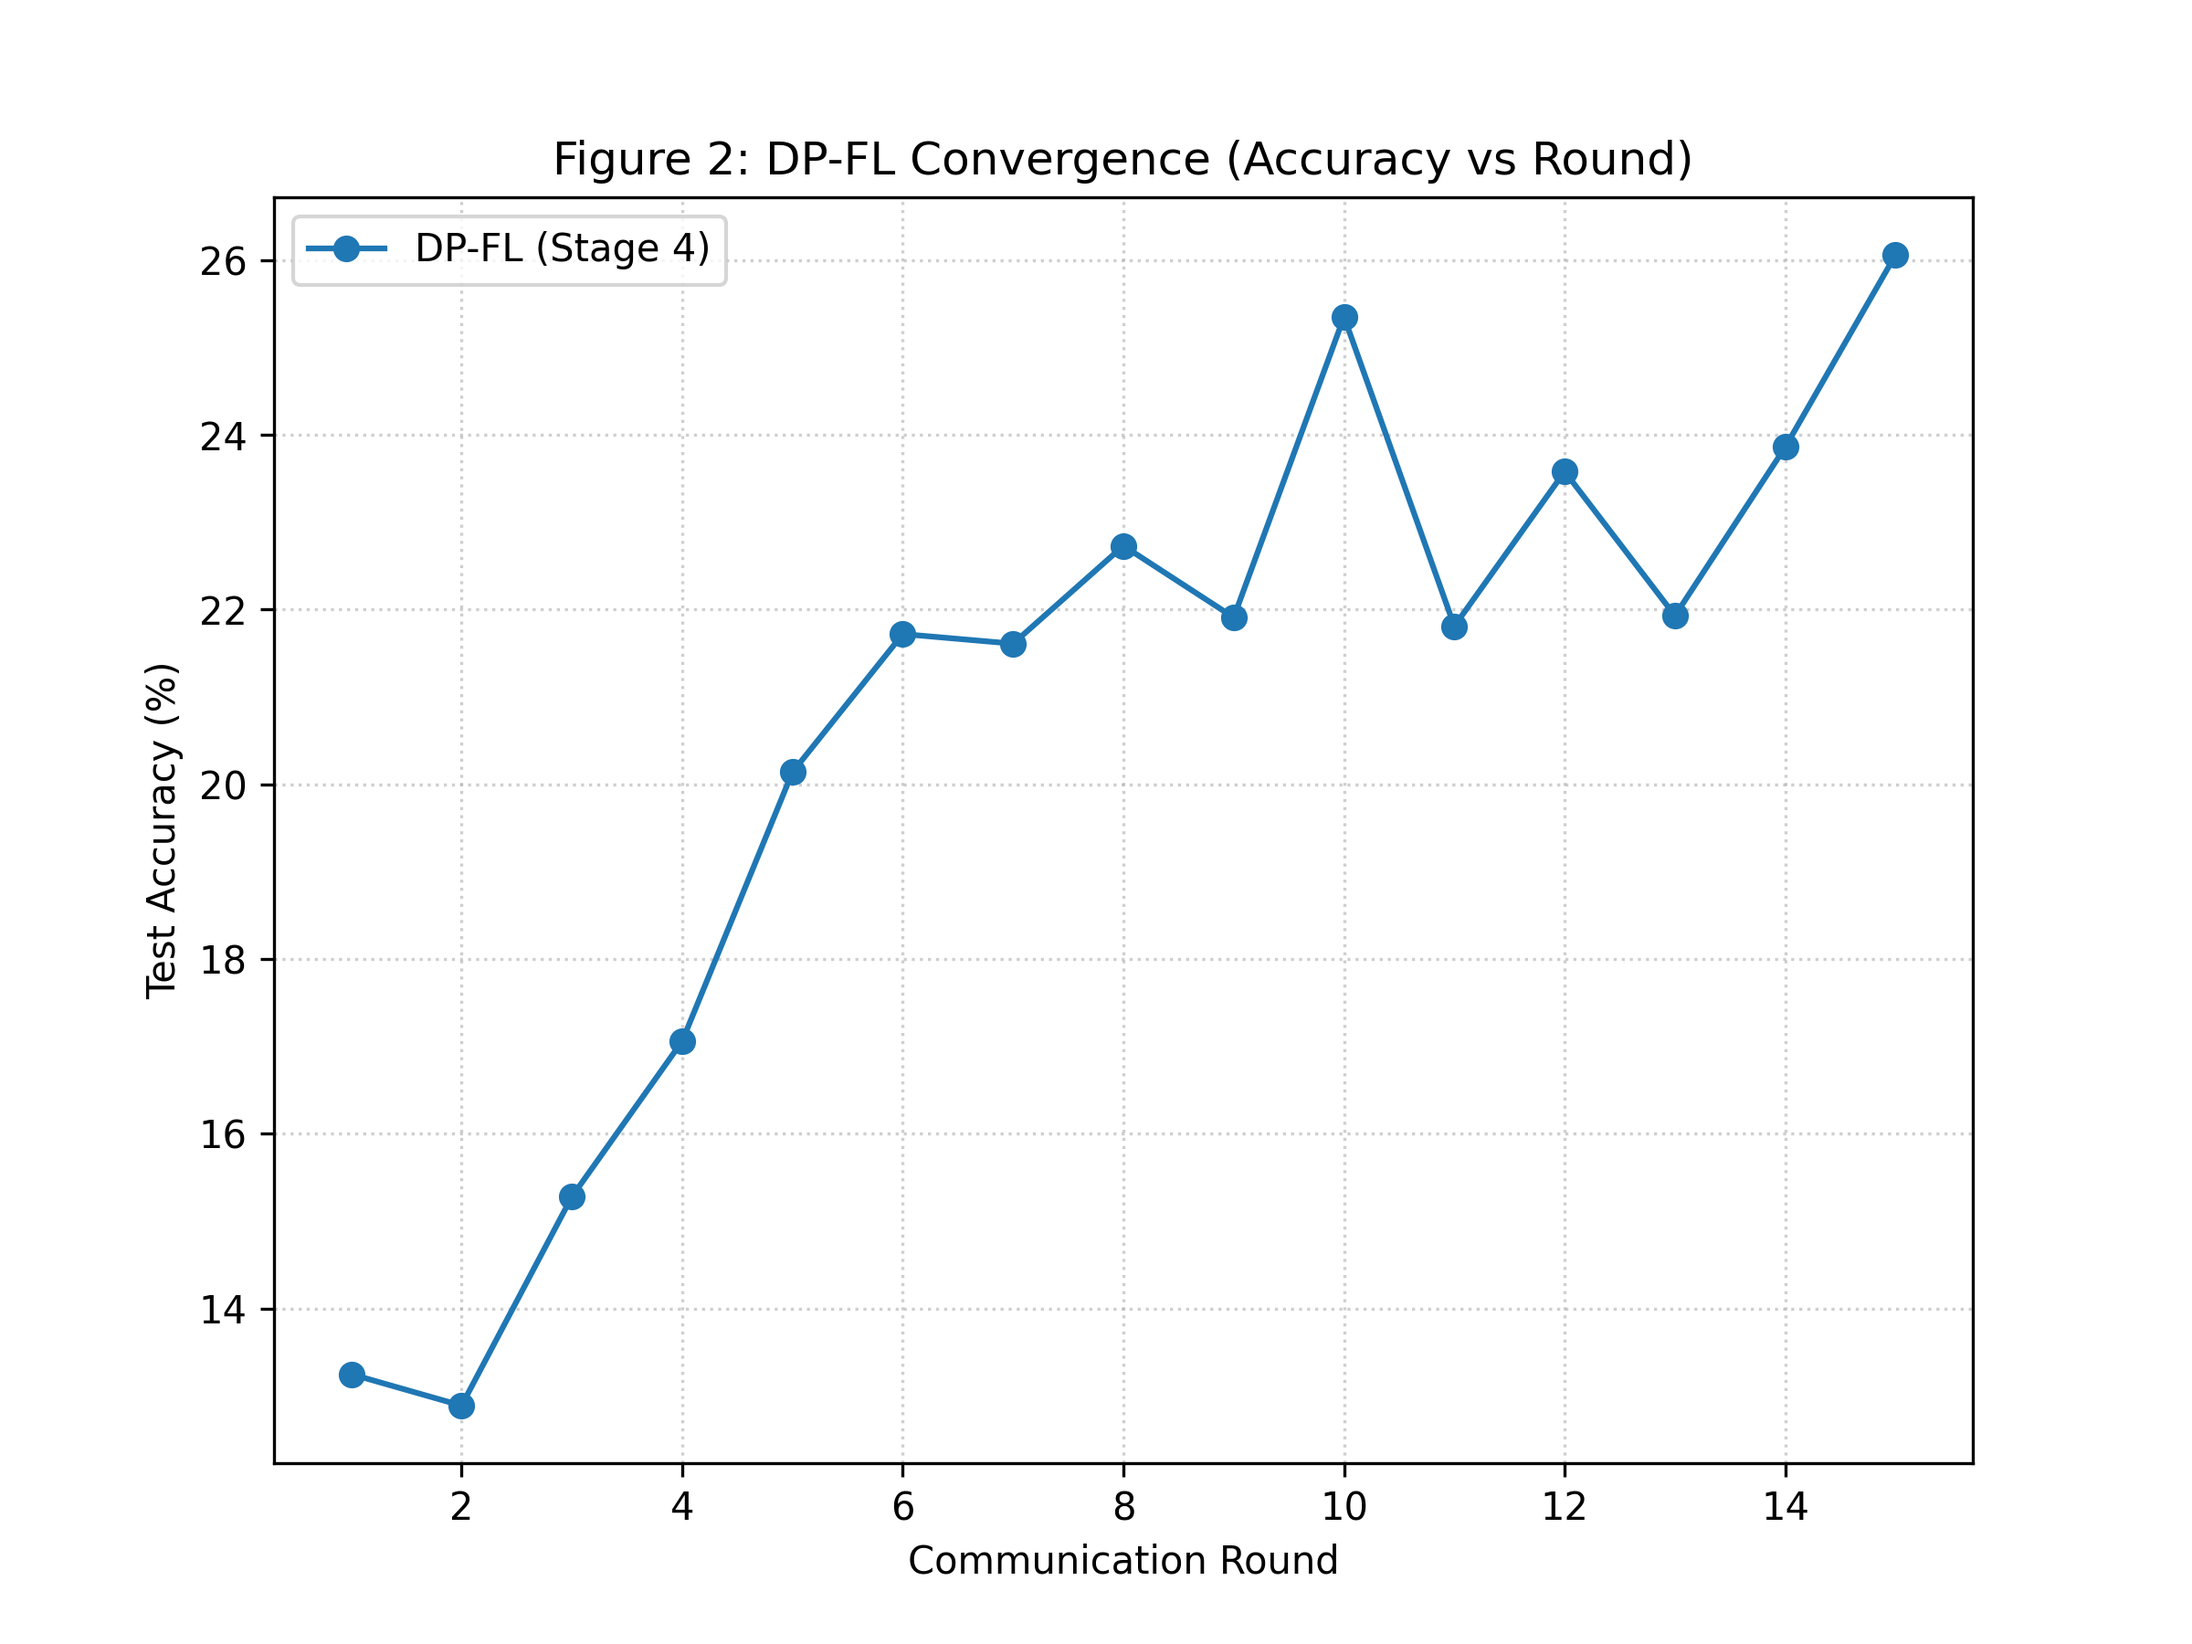
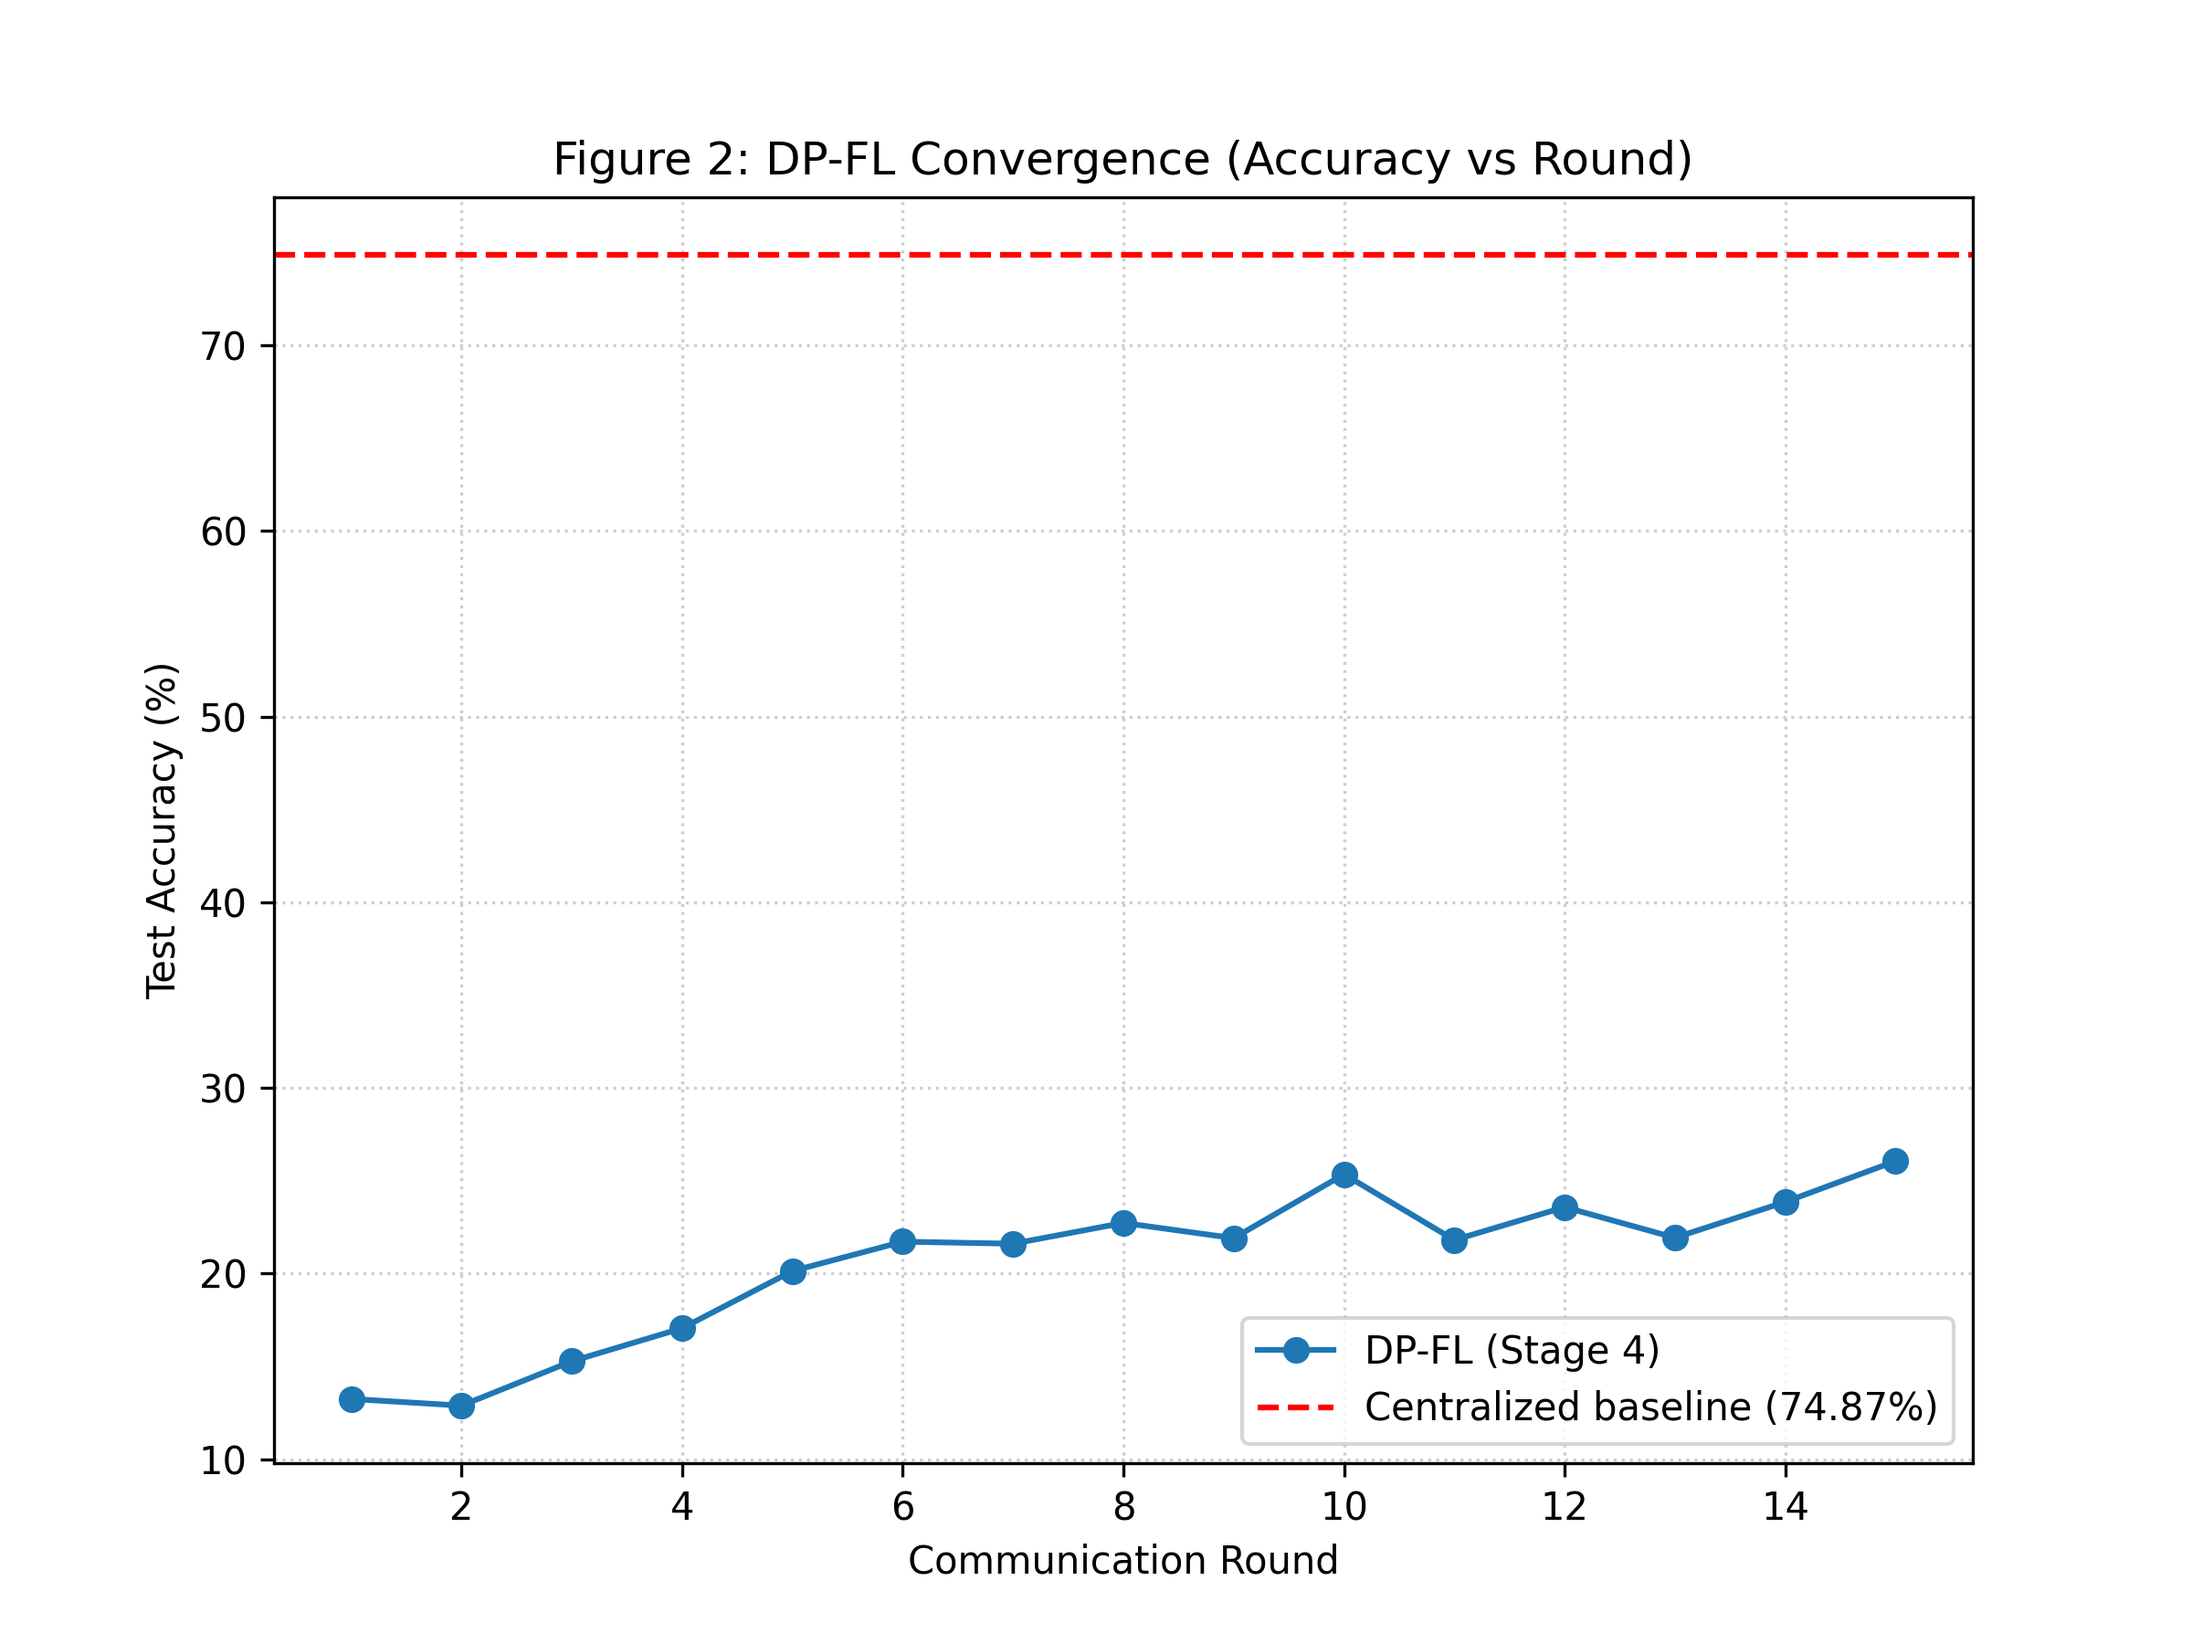
finalize dpfl research report and publication artifacts

diff --git a/technical_report.tex b/technical_report.tex
@@ -91,13 +91,35 @@ We implement DP using Opacus. The \texttt{PrivacyEngine} wraps the local model, 
 \end{itemize}
 
 \section{Privacy Accounting}
-Because the dataset is statically partitioned and clients hold disjoint datasets, we utilize \textbf{parallel composition}. The global privacy loss is bounded by the privacy loss of the worst-case individual client.
-\begin{enumerate}
-    \item We extract the exact sample rate (expected batch size / local dataset size) per client from the Opacus \texttt{DPDataLoader}.
-    \item We track the exact number of DP steps per client per round.
-    \item RDP is computed for each client over all their individual steps.
-    \item We convert RDP to $\varepsilon$ using $\delta=10^{-5}$. The global $\varepsilon$ is $\max(\varepsilon_{clients})$.
-\end{enumerate}
+We utilize Rényi Differential Privacy (RDP) to track the privacy loss analytically across multiple training steps. Because the dataset is statically partitioned using a Dirichlet distribution and clients hold disjoint datasets, we leverage \textbf{parallel composition} across clients. The global privacy guarantee is bounded by the privacy loss of the worst-case individual client. The complete accounting chain is derived as follows:
+
+\subsection{Per-Step Subsampled Gaussian Mechanism}
+At each training step, the \texttt{DPDataLoader} draws a batch with a Poisson sampling rate $q$ (expected batch size divided by local dataset size). Opacus computes the per-sample gradients and clips them to a maximum $L_2$ norm, the clipping threshold $C$. It then adds Gaussian noise with standard deviation $\sigma C$ to the batch-averaged gradient, where $\sigma$ is the noise multiplier. 
+
+\subsection{Rényi Differential Privacy (RDP) Composition}
+For a single DP-SGD step, the privacy loss is quantified by the RDP of order $r$ (distinguished from the Dirichlet heterogeneity parameter $\alpha$), denoted as $\text{RDP}_{\text{step}}(r)$. The exact numerical evaluation of $\text{RDP}_{\text{step}}(r)$ for the subsampled Gaussian mechanism is performed by the Opacus RDP accountant.
+
+Because we assume sequential composition over the DP steps performed by a single client, for $T$ total local DP-SGD steps, the accumulated RDP at order $r$ is:
+\begin{equation}
+    \text{RDP}_T(r) = T \cdot \text{RDP}_{\text{step}}(r)
+\end{equation}
+
+\subsection{Conversion to $(\varepsilon, \delta)$-DP}
+The cumulative RDP is converted back to standard $(\varepsilon, \delta)$-DP using the standard conversion formula for a given target $\delta$:
+\begin{equation}
+    \varepsilon_r(\delta) = \text{RDP}_T(r) + \frac{\log(1/\delta)}{r - 1}
+\end{equation}
+The reported $\varepsilon$ for the client is the minimum over all evaluated Rényi orders $r$:
+\begin{equation}
+    \varepsilon = \min_r \varepsilon_r(\delta)
+\end{equation}
+Finally, under the parallel composition assumption for disjoint client datasets, the global reported epsilon is simply $\max(\varepsilon_{\text{clients}})$.
+
+\subsection{Experimental Application}
+In our experiments, we fix $\delta = 10^{-5}$. The RDP accountant uses the actual sample rate $q$ extracted from the \texttt{DPDataLoader} and the exact accumulated DP step count $T$ for each client. The parameters $\sigma$ and $C$ are defined by the specific experimental run, and the final $\varepsilon$ (with its corresponding minimizing Rényi order) is recorded directly from the Opacus accountant in the run artifacts.
+
+\textbf{Concrete Example (Stage 4)}: 
+In the authoritative 15-round Stage 4 run ($\sigma=1.0, C=1.0$), a client performed $T = 3045$ total DP steps. Evaluated at $\delta = 10^{-5}$, the Opacus accountant identified a minimizing Rényi order of $r = 6.9$, yielding a final worst-case global privacy guarantee of $\varepsilon = 2.6974$.
 
 \section{Experimental Setup}
 Experiments were run on a GPU environment (Tesla T4 via Colab) to overcome Ray compatibility issues on Windows and accelerate Opacus's computationally expensive per-sample gradient hooks.

diff --git a/scripts/run_ablation.py b/scripts/run_ablation.py
@@ -55,6 +55,9 @@ def main():
             print(f"\n--- alpha={a}, sigma={s}, C={C_val} ({mode}) ---")
             output_dir = os.path.join(base_out_dir, f"alpha_{a}_sigma_{s}_C_{C_val}")
             os.makedirs(output_dir, exist_ok=True)
+            summary_path = os.path.join(output_dir, "summary.json")
+            if os.path.exists(summary_path):
+                os.remove(summary_path)
 
             cmd = [
                 sys.executable, os.path.join(os.path.dirname(__file__), "run_federated.py"),
@@ -80,7 +83,9 @@ def main():
     for a in alphas:
         for s in sigmas:
             summary_path = os.path.join(base_out_dir, f"alpha_{a}_sigma_{s}_C_{C_val}", "summary.json")
-            if os.path.exists(summary_path):
+            if (a, s) in failed:
+                print(f"ERROR: Skipping summary collection for failed run alpha={a}, sigma={s}")
+            elif os.path.exists(summary_path):
                 with open(summary_path) as f:
                     all_results.append(json.load(f))
                 successful.append((a, s))

diff --git a/scripts/run_privacy_grid.py b/scripts/run_privacy_grid.py
@@ -53,6 +53,9 @@ def main():
             print(f"\n--- sigma={s}, C={c} ({mode}) ---")
             output_dir = os.path.join(base_out_dir, f"sigma_{s}_C_{c}")
             os.makedirs(output_dir, exist_ok=True)
+            summary_path = os.path.join(output_dir, "summary.json")
+            if os.path.exists(summary_path):
+                os.remove(summary_path)
 
             cmd = [
                 sys.executable, os.path.join(os.path.dirname(__file__), "run_federated.py"),
@@ -77,7 +80,9 @@ def main():
     for s in sigmas:
         for c in Cs:
             summary_path = os.path.join(base_out_dir, f"sigma_{s}_C_{c}", "summary.json")
-            if os.path.exists(summary_path):
+            if (s, c) in failed:
+                print(f"ERROR: Skipping summary collection for failed run sigma={s}, C={c}")
+            elif os.path.exists(summary_path):
                 with open(summary_path) as f:
                     all_results.append(json.load(f))
                 successful.append((s, c))

diff --git a/scripts/generate_figures.py b/scripts/generate_figures.py
@@ -105,6 +105,7 @@ def main():
             
             plt.figure(figsize=(8, 6))
             plt.plot(r_nums, accs, marker='o', label="DP-FL (Stage 4)")
+            plt.axhline(y=74.87, color='r', linestyle='--', label="Centralized baseline (74.87%)")
             plt.title(f"Figure 2: DP-FL Convergence (Accuracy vs Round){title_suffix}")
             plt.xlabel("Communication Round")
             plt.ylabel("Test Accuracy (%)")
